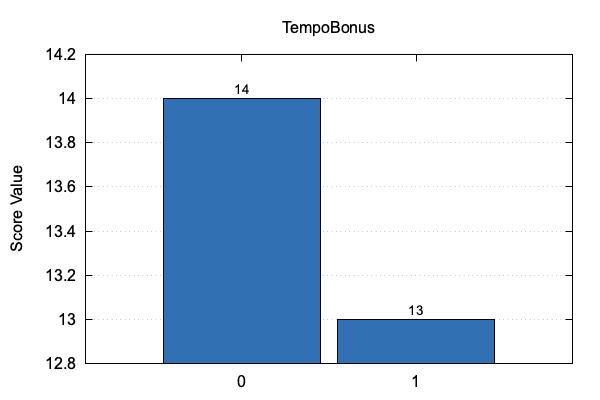
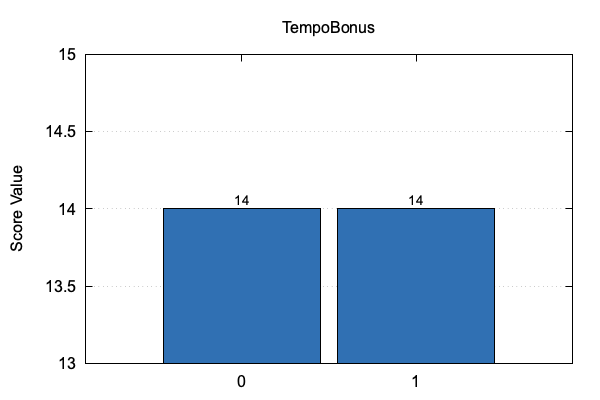
new values
bench 17798071

diff --git a/eval/coeff.go b/eval/coeff.go
@@ -55,175 +55,175 @@ var Coefficients = CoeffSet[Score]{
 	PSqT: [12][64]Score{
 		{
 			0, 0, 0, 0, 0, 0, 0, 0,
-			102, 112, 89, 111, 109, 67, -65, -64,
-			9, 30, 51, 45, 61, 114, 77, 24,
-			4, 16, 18, 31, 49, 49, 38, 13,
-			-2, 2, 11, 19, 25, 24, 21, 7,
-			-4, -4, 1, 5, 16, 18, 28, 12,
-			-4, -6, -9, -4, -1, 29, 39, 7,
+			101, 112, 90, 111, 109, 66, -66, -64,
+			7, 29, 50, 44, 60, 112, 74, 23,
+			3, 16, 17, 30, 48, 48, 36, 12,
+			-2, 1, 10, 19, 25, 23, 20, 7,
+			-4, -5, 1, 4, 16, 17, 27, 11,
+			-5, -6, -9, -5, -2, 28, 38, 6,
 			0, 0, 0, 0, 0, 0, 0, 0,
 		},
 		{
 			0, 0, 0, 0, 0, 0, 0, 0,
-			110, 101, 96, 47, 46, 64, 120, 123,
-			37, 30, 1, -31, -38, -21, 1, 10,
-			10, 0, -12, -34, -32, -27, -15, -14,
-			-7, -7, -22, -26, -26, -22, -22, -23,
-			-13, -15, -18, -20, -15, -16, -27, -28,
-			-8, -12, -10, -11, -1, -11, -27, -34,
+			116, 107, 100, 51, 49, 69, 125, 129,
+			38, 31, 1, -33, -39, -20, 3, 10,
+			10, -1, -13, -36, -33, -28, -14, -13,
+			-8, -9, -24, -28, -28, -23, -23, -24,
+			-14, -16, -20, -22, -17, -18, -28, -30,
+			-10, -14, -12, -13, -3, -12, -28, -36,
 			0, 0, 0, 0, 0, 0, 0, 0,
 		},
 		{
-			-185, -130, -91, -25, 24, -104, -114, -141,
-			-14, -10, 33, 56, 36, 73, -14, 13,
-			-19, 18, 34, 39, 86, 73, 49, 18,
-			0, 5, 21, 33, 21, 46, 21, 33,
-			-10, 5, 13, 15, 25, 21, 35, 8,
-			-26, -8, -2, 13, 19, 7, 7, -7,
-			-39, -32, -16, 0, -2, 2, -9, -9,
-			-87, -28, -44, -21, -17, -10, -24, -60,
+			-185, -133, -93, -25, 25, -108, -111, -142,
+			-14, -9, 33, 57, 36, 73, -14, 14,
+			-18, 19, 34, 39, 86, 74, 49, 18,
+			0, 5, 21, 33, 21, 46, 21, 34,
+			-9, 5, 13, 15, 25, 21, 35, 8,
+			-25, -8, -1, 13, 19, 8, 7, -6,
+			-38, -31, -16, 1, -1, 2, -8, -9,
+			-86, -28, -44, -20, -17, -10, -23, -59,
 		},
 		{
-			-34, 11, 22, 8, 6, 30, 12, -62,
-			-12, 4, -1, 15, 10, -18, 6, -22,
-			-4, 3, 32, 29, 11, 13, -9, -12,
-			1, 14, 34, 40, 39, 29, 24, 5,
-			10, 19, 45, 40, 45, 44, 22, 19,
-			-17, 7, 17, 36, 32, 14, 7, -2,
-			-2, 12, 0, 12, 15, -4, 4, 7,
-			-13, -27, -2, 9, 10, -3, -14, -16,
+			-36, 11, 21, 7, 4, 28, 9, -65,
+			-14, 4, -1, 15, 10, -20, 4, -23,
+			-5, 2, 32, 29, 10, 13, -10, -13,
+			1, 14, 34, 40, 39, 30, 24, 4,
+			10, 19, 45, 40, 45, 44, 22, 18,
+			-18, 7, 16, 36, 32, 13, 7, -3,
+			-2, 11, 0, 12, 15, -5, 3, 6,
+			-14, -27, -2, 9, 9, -3, -14, -16,
 		},
 		{
-			-59, -58, -94, -97, -89, -124, -34, -55,
-			-46, -9, -12, -31, -7, -8, -23, -52,
-			-9, 6, 26, 22, 28, 52, 38, 10,
-			-20, 5, 7, 36, 20, 19, 2, -12,
+			-60, -59, -97, -98, -90, -126, -33, -56,
+			-46, -9, -12, -30, -7, -8, -23, -53,
+			-9, 6, 26, 22, 28, 52, 37, 10,
+			-20, 5, 7, 35, 20, 18, 2, -13,
 			-13, -5, -3, 12, 14, -9, -4, -5,
-			-13, 2, -2, -2, -4, 0, 1, 5,
-			0, 1, 5, -12, -5, 1, 15, 5,
-			-2, 2, -19, -28, -23, -13, -9, -9,
+			-13, 2, -3, -3, -4, 0, 1, 4,
+			-1, 1, 5, -12, -5, 1, 15, 5,
+			-2, 2, -19, -28, -23, -14, -9, -10,
 		},
 		{
-			31, 28, 29, 36, 30, 32, 16, 17,
-			15, 20, 21, 21, 16, 18, 23, 13,
-			17, 22, 18, 12, 14, 23, 18, 14,
-			13, 22, 19, 26, 30, 20, 28, 18,
-			5, 14, 27, 28, 26, 25, 14, 2,
-			6, 15, 19, 21, 25, 15, 9, 3,
-			4, -5, -2, 10, 9, 2, 1, -21,
-			-10, 3, 6, 6, 10, 9, -3, -12,
+			32, 29, 30, 36, 31, 32, 16, 19,
+			16, 21, 21, 20, 15, 18, 23, 14,
+			18, 23, 19, 13, 14, 24, 19, 15,
+			13, 22, 20, 27, 31, 21, 28, 18,
+			5, 14, 28, 29, 27, 25, 14, 2,
+			6, 16, 20, 22, 26, 15, 9, 3,
+			5, -4, -2, 11, 10, 3, 2, -20,
+			-9, 4, 7, 6, 10, 10, -2, -10,
 		},
 		{
-			49, 53, 31, 46, 47, 56, 58, 77,
-			14, 4, 34, 50, 43, 64, 32, 56,
-			-4, 32, 23, 42, 66, 69, 92, 38,
-			-13, -1, 8, 27, 20, 26, 29, 19,
-			-30, -26, -21, -10, -13, -22, 0, -14,
-			-32, -23, -23, -16, -14, -17, 9, -13,
-			-48, -23, -13, -8, -8, -2, 11, -34,
-			-20, -14, -7, 1, 1, -3, 7, -20,
+			49, 54, 31, 46, 48, 58, 61, 79,
+			13, 2, 32, 48, 41, 62, 30, 55,
+			-6, 31, 21, 40, 64, 66, 90, 36,
+			-14, -3, 6, 25, 18, 24, 28, 18,
+			-32, -27, -22, -11, -14, -23, -1, -15,
+			-34, -24, -24, -17, -15, -18, 8, -14,
+			-49, -24, -14, -9, -10, -3, 10, -35,
+			-21, -15, -8, 0, 0, -4, 5, -20,
 		},
 		{
-			33, 36, 48, 40, 44, 44, 41, 36,
-			36, 45, 41, 38, 39, 21, 30, 19,
-			33, 23, 33, 22, 14, 17, 1, 18,
-			29, 30, 33, 27, 24, 20, 13, 19,
-			20, 30, 31, 26, 26, 27, 16, 14,
-			6, 16, 15, 13, 13, 9, 0, -4,
-			9, 5, 10, 7, 5, -2, -10, 4,
-			8, 9, 13, 7, 4, 10, 1, 0,
+			34, 38, 49, 41, 45, 44, 41, 36,
+			38, 47, 43, 41, 42, 23, 32, 20,
+			35, 25, 35, 25, 16, 19, 3, 19,
+			31, 32, 35, 29, 26, 22, 14, 20,
+			21, 32, 33, 28, 27, 29, 17, 14,
+			6, 17, 16, 14, 14, 10, 0, -4,
+			10, 7, 11, 8, 6, -1, -9, 4,
+			9, 10, 14, 8, 6, 11, 2, 0,
 		},
 		{
-			-30, 0, 10, 23, 31, 57, 42, 15,
-			-20, -45, -8, -30, -25, 31, -29, 27,
-			-10, 0, -2, 6, 16, 67, 62, 40,
-			-5, -5, -7, -5, 2, 9, 23, 15,
-			-2, -1, -3, 0, 1, 7, 9, 17,
-			-6, 6, 8, 2, 7, 7, 18, 10,
-			-1, 7, 11, 14, 13, 23, 26, 19,
-			2, 0, 6, 12, 14, -11, 2, -10,
+			-30, 1, 9, 20, 29, 56, 39, 15,
+			-19, -44, -8, -30, -25, 30, -29, 27,
+			-9, 1, -1, 6, 16, 66, 62, 40,
+			-4, -4, -6, -5, 2, 10, 23, 16,
+			-1, 0, -2, 1, 2, 8, 10, 18,
+			-5, 7, 9, 3, 8, 8, 19, 11,
+			0, 9, 12, 15, 14, 24, 28, 20,
+			3, 1, 7, 13, 14, -10, 3, -9,
 		},
 		{
-			59, 51, 68, 78, 91, 85, 64, 86,
-			32, 61, 59, 97, 133, 99, 81, 54,
-			26, 26, 58, 64, 90, 78, 53, 56,
-			14, 49, 49, 72, 88, 95, 83, 61,
-			0, 37, 42, 67, 60, 58, 39, 35,
-			-12, 6, 25, 22, 24, 30, 1, -13,
-			-24, -17, -23, -9, -10, -47, -68, -58,
-			-23, -34, -26, -16, -33, -33, -52, -12,
+			64, 55, 74, 86, 98, 91, 72, 90,
+			35, 63, 62, 102, 139, 104, 86, 58,
+			28, 29, 62, 68, 95, 84, 56, 59,
+			16, 52, 51, 76, 92, 98, 86, 64,
+			2, 39, 44, 71, 63, 60, 41, 37,
+			-11, 8, 27, 24, 26, 32, 3, -11,
+			-23, -16, -22, -7, -8, -46, -67, -57,
+			-22, -33, -24, -15, -31, -31, -51, -9,
 		},
 		{
-			100, 171, 136, 78, 14, 34, -3, 135,
-			-34, 82, 73, 146, 84, 75, 58, -61,
-			16, 121, 110, 58, 89, 132, 86, -12,
-			21, 55, 54, 25, 34, 50, 30, -47,
-			-31, 14, 32, -14, 4, 4, -2, -83,
-			-39, -20, -30, -30, -17, -34, -17, -50,
-			17, -12, -29, -60, -54, -48, -1, 9,
-			8, 39, 7, -70, -28, -67, 17, 22,
+			117, 191, 156, 97, 31, 55, 23, 151,
+			-26, 93, 87, 157, 90, 90, 69, -57,
+			27, 130, 119, 66, 99, 138, 91, -11,
+			25, 60, 56, 25, 35, 49, 31, -46,
+			-27, 16, 33, -15, 3, 2, -2, -85,
+			-37, -20, -31, -31, -18, -35, -17, -50,
+			19, -11, -29, -60, -54, -48, -1, 10,
+			8, 39, 8, -70, -27, -66, 18, 23,
 		},
 		{
-			-152, -88, -60, -22, -23, -25, -18, -151,
-			-19, 8, 12, -9, 10, 18, 34, -8,
-			-2, 18, 23, 34, 27, 32, 35, 7,
-			-5, 21, 37, 43, 40, 34, 29, 7,
-			-15, 15, 31, 47, 40, 31, 16, 3,
-			-10, 9, 23, 33, 30, 23, 3, -7,
-			-18, -1, 12, 18, 18, 16, -8, -33,
-			-65, -40, -21, -11, -32, -3, -36, -85,
+			-156, -92, -63, -24, -24, -28, -23, -153,
+			-19, 11, 12, -8, 13, 19, 35, -9,
+			-3, 19, 25, 35, 29, 34, 37, 7,
+			-6, 22, 39, 46, 43, 36, 30, 6,
+			-17, 14, 31, 48, 41, 32, 16, 2,
+			-14, 7, 23, 33, 30, 22, 1, -10,
+			-22, -4, 10, 18, 17, 14, -11, -36,
+			-68, -43, -23, -13, -34, -6, -39, -89,
 		},
 	},
 	PieceValues: [2][7]Score{
-		{0, 77, 394, 405, 521, 1113, 0},
-		{0, 133, 346, 369, 675, 1313, 0},
+		{0, 76, 392, 402, 514, 1116, 0},
+		{0, 139, 355, 376, 689, 1332, 0},
 	},
-	TempoBonus: [2]Score{14, 13},
+	TempoBonus: [2]Score{14, 14},
 	KingAttackPieces: [2][4]Score{
 		{8, 8, 10, 16},
-		{-55, 16, 4, -81},
+		{-54, 16, 3, -81},
 	},
 	SafeChecks: [2][4]Score{
 		{7, 7, 7, 6},
-		{12, -5, 3, 7},
+		{12, -3, 4, 7},
 	},
 	KingShelter: [2]Score{7, -1},
 	MobilityKnight: [2][9]Score{
-		{-40, -29, -24, -20, -16, -12, -6, 1, 9},
-		{-64, -7, 22, 37, 46, 55, 53, 46, 29},
+		{-42, -31, -25, -22, -18, -14, -8, 0, 8},
+		{-64, -6, 22, 38, 47, 55, 54, 46, 30},
 	},
 	MobilityBishop: [2][14]Score{
-		{-32, -28, -22, -21, -17, -11, -6, -5, -4, -2, 1, 4, 0, 37},
-		{-31, -10, 0, 14, 27, 40, 47, 54, 61, 60, 56, 55, 57, 36},
+		{-33, -29, -24, -22, -18, -12, -7, -6, -6, -4, -1, 2, -1, 35},
+		{-30, -8, 2, 16, 29, 43, 49, 57, 63, 62, 59, 58, 59, 39},
 	},
 	MobilityRook: [2][11]Score{
-		{-20, -14, -14, -10, -7, -1, 5, 12, 14, 18, 36},
-		{-3, 4, 16, 23, 34, 39, 43, 45, 50, 54, 43},
+		{-20, -14, -13, -10, -7, -1, 5, 12, 14, 17, 35},
+		{-1, 6, 18, 25, 36, 41, 45, 47, 53, 57, 46},
 	},
 	KnightOutpost: [2][40]Score{
 		{
-			-12, 16, 68, 22, 82, 87, 151, -37,
-			69, 18, -11, -24, 22, -33, -2, -9,
-			2, -5, 16, 23, 6, 35, 12, 28,
-			11, 23, 29, 34, 44, 60, 54, 17,
+			-2, 12, 87, 27, 85, 86, 166, -43,
+			64, 21, -10, -17, 26, -31, -1, -8,
+			2, -5, 17, 23, 6, 36, 13, 29,
+			11, 23, 28, 34, 44, 60, 55, 18,
 			0, 0, 0, 33, 39, 0, 0, 0,
 		},
 		{
-			-62, 68, 10, 16, -8, 55, -25, 34,
-			-23, 10, 20, 12, 6, 30, 21, 42,
-			34, 40, 22, 28, 38, 37, 46, 37,
-			19, 16, 22, 28, 32, 17, 11, 20,
-			0, 0, 0, 19, 17, 0, 0, 0,
+			-45, 52, 10, 14, -6, 52, -22, 28,
+			-21, 8, 19, 8, 4, 28, 20, 32,
+			35, 40, 22, 29, 40, 38, 46, 36,
+			20, 17, 23, 29, 33, 17, 11, 19,
+			0, 0, 0, 20, 18, 0, 0, 0,
 		},
 	},
 	ConnectedRooks:  [2]Score{2, 14},
-	BishopPair:      [9]Score{7, 48, 56, 51, 46, 41, 35, 31, 24},
+	BishopPair:      [9]Score{9, 52, 58, 52, 46, 41, 35, 31, 24},
 	ProtectedPasser: [2]Score{20, 5},
-	PasserKingDist:  [2]Score{-5, 12},
+	PasserKingDist:  [2]Score{-2, 11},
 	PasserRank: [2][6]Score{
-		{-14, -22, -16, 11, 37, 72},
-		{18, 20, 43, 67, 118, 77},
+		{-13, -21, -16, 11, 36, 68},
+		{17, 19, 43, 67, 120, 77},
 	},
-	DoubledPawns:  [2]Score{-13, -14},
+	DoubledPawns:  [2]Score{-13, -16},
 	IsolatedPawns: [2]Score{-13, -14},
 }

diff --git a/docs/eval/readme.md b/docs/eval/readme.md
@@ -84,7 +84,7 @@
 ![TempoBonus](tempobonus.png)
 
 
-Middle Game: 14 | End Game: 13
+Middle Game: 14 | End Game: 14
 
 
 ## KingAttackPieces
@@ -164,7 +164,7 @@ Middle Game: 20 | End Game: 5
 ![PasserKingDist](passerkingdist.png)
 
 
-Middle Game: -5 | End Game: 12
+Middle Game: -2 | End Game: 11
 
 
 ## PasserRank
@@ -178,7 +178,7 @@ Middle Game: -5 | End Game: 12
 ![DoubledPawns](doubledpawns.png)
 
 
-Middle Game: -13 | End Game: -14
+Middle Game: -13 | End Game: -16
 
 
 ## IsolatedPawns
